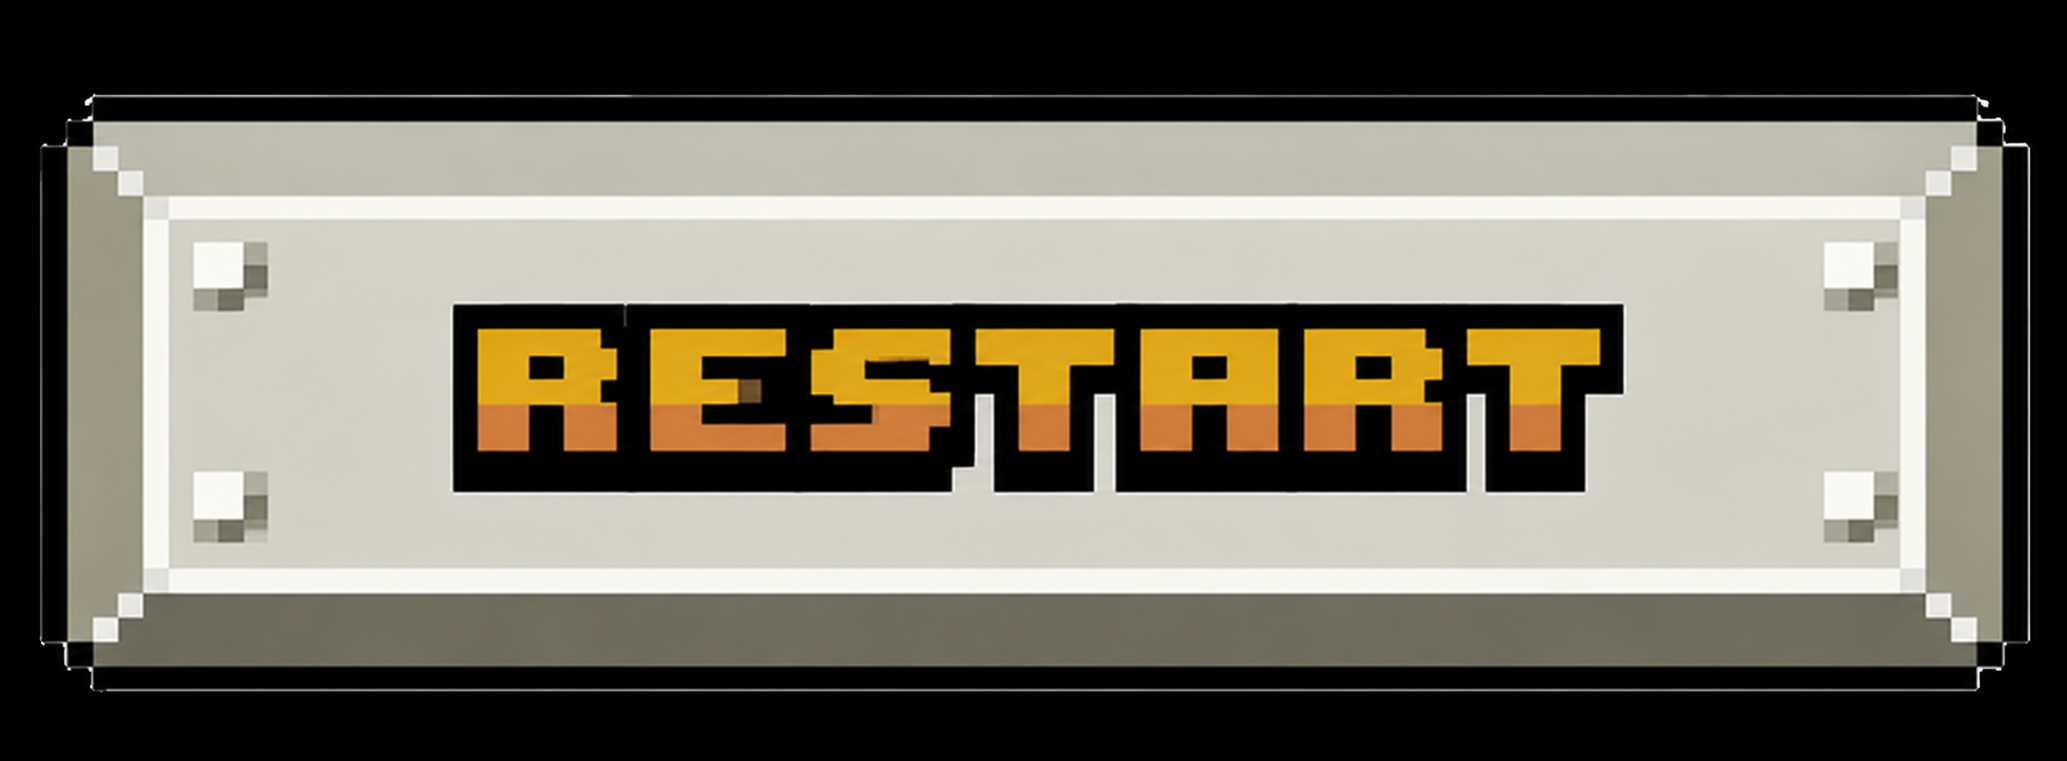
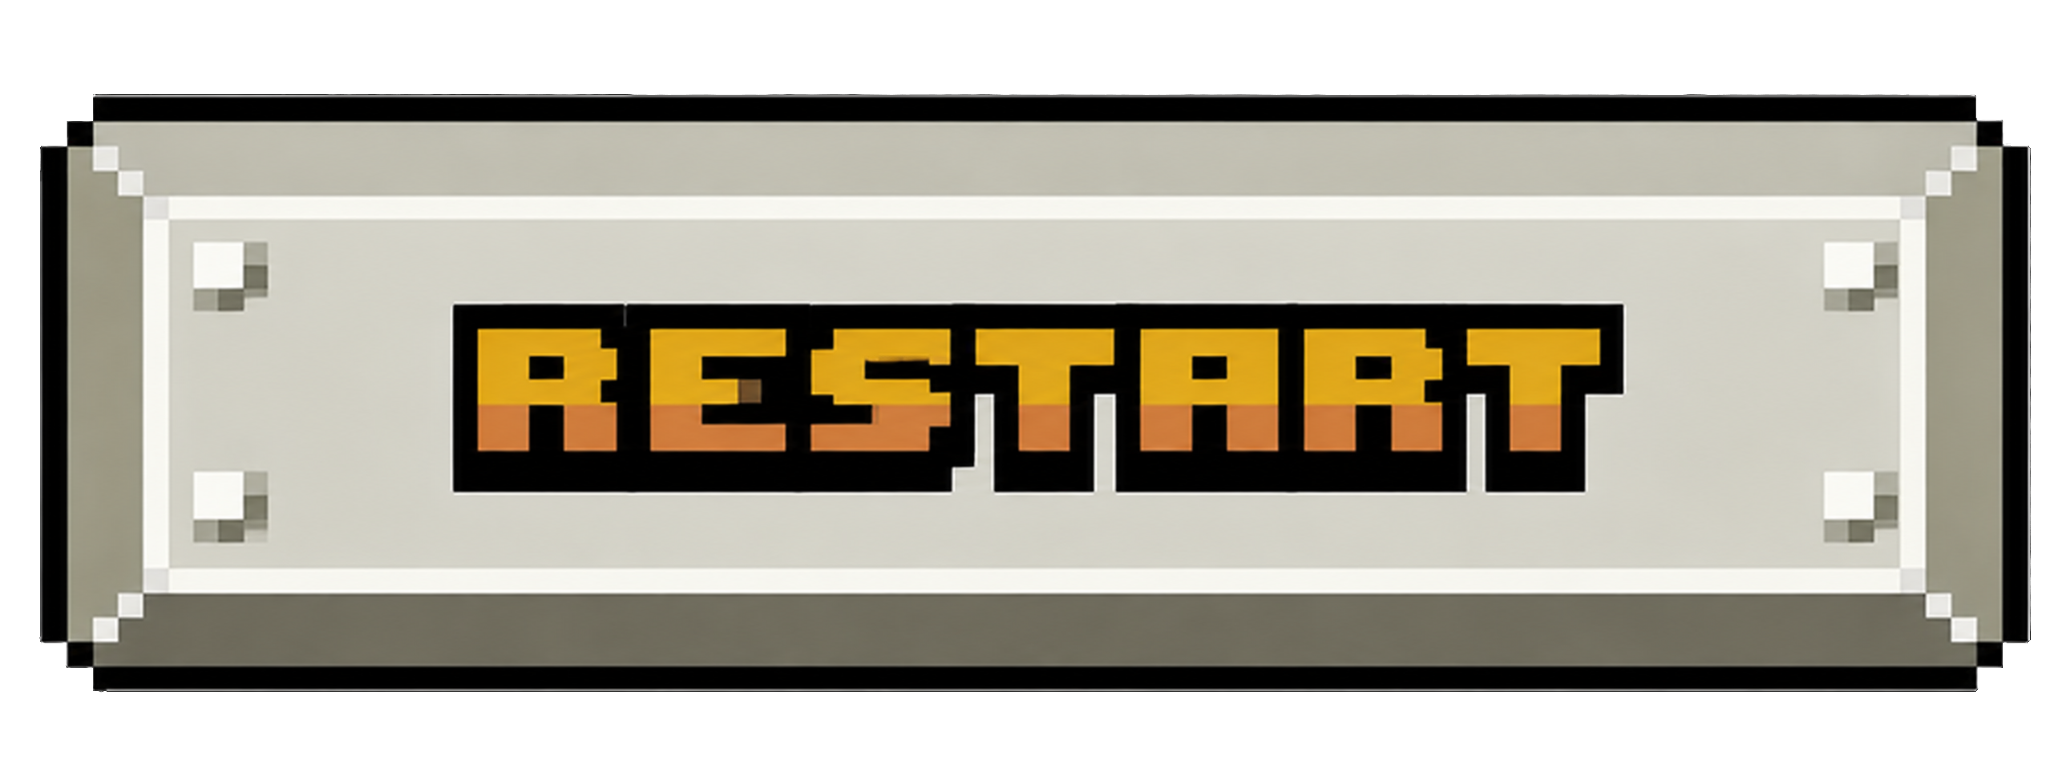
Add GUI buttons to game over screen
Replace keyboard shortcuts (K_r to restart, K_q to quit) with mouse-clickable buttons on the game over screen. Added restart and quit button images, and implemented event handling for mouse interactions on these UI elements.

Changed region(s): [[0.0, 0.0, 1.0, 1.0]]

diff --git a/Game projects/Shooting game/main.py b/Game projects/Shooting game/main.py
@@ -57,6 +57,8 @@ exit_img = pygame.image.load("Assets/exit.png")
 pause_img = pygame.image.load("Assets/menu.png")
 continue_img = pygame.image.load("Assets/continue.png")
 quit_img = pygame.image.load("Assets/quit.png")
+restart_img = pygame.image.load("Assets/restart.png")
+quit_gameover_img = pygame.image.load("Assets/quitt.png")
 
 # Resize Menu assets
 title_img = pygame.transform.scale(title_img, (350, 120))
@@ -66,6 +68,8 @@ exit_img = pygame.transform.scale(exit_img, (250, 80))
 pause_img = pygame.transform.scale(pause_img, (400, 100))
 continue_img = pygame.transform.scale(continue_img, (250, 80))
 quit_img = pygame.transform.scale(quit_img, (250, 72))
+restart_img = pygame.transform.scale(restart_img, (250, 80))
+quit_gameover_img = pygame.transform.scale(quit_gameover_img, (250, 80))
 
 # Game State
 game_state = "menu"  
@@ -77,6 +81,8 @@ exit_rect = exit_img.get_rect(center=(WIDTH//2, 500))
 continue_rect = continue_img.get_rect(center=(WIDTH//2, 350))
 quit_rect = quit_img.get_rect(center=(WIDTH//2, 450))
 pause_rect = pause_img.get_rect(center=(WIDTH//2, 200))
+restart_rect = restart_img.get_rect(center=(WIDTH//2, 350))
+quit_gameover_rect = quit_gameover_img.get_rect(center=(WIDTH//2, 450))
 
 # Player settings
 player_width = 50
@@ -191,6 +197,17 @@ while running:
                 elif quit_rect.collidepoint(mouse_pos):
                     start_fade("menu")
 
+        # Game over events
+        if game_state == "game_over":
+            if event.type == pygame.MOUSEBUTTONDOWN:
+
+                if restart_rect.collidepoint(mouse_pos):
+                    reset_game()
+                    start_fade("game")
+                
+                elif quit_gameover_rect.collidepoint(mouse_pos):
+                    start_fade("menu")
+
         # Pause menu
         if event.type == pygame.KEYDOWN:
             if event.key == pygame.K_ESCAPE and game_state == "game":
@@ -207,15 +224,6 @@ while running:
         if event.type == pygame.KEYDOWN:
             if event.key == pygame.K_SPACE and game_state == "game":
                 bullets.append([player_x + player_width // 2, player_y])
-
-            # RESTART GAME
-            if event.key == pygame.K_r and game_state == "game_over":
-                reset_game()
-                start_fade("game")
-
-            # QUIT GAME
-            if event.key == pygame.K_q and game_state == "game_over":
-                start_fade("menu")
 
 
     # menu screen